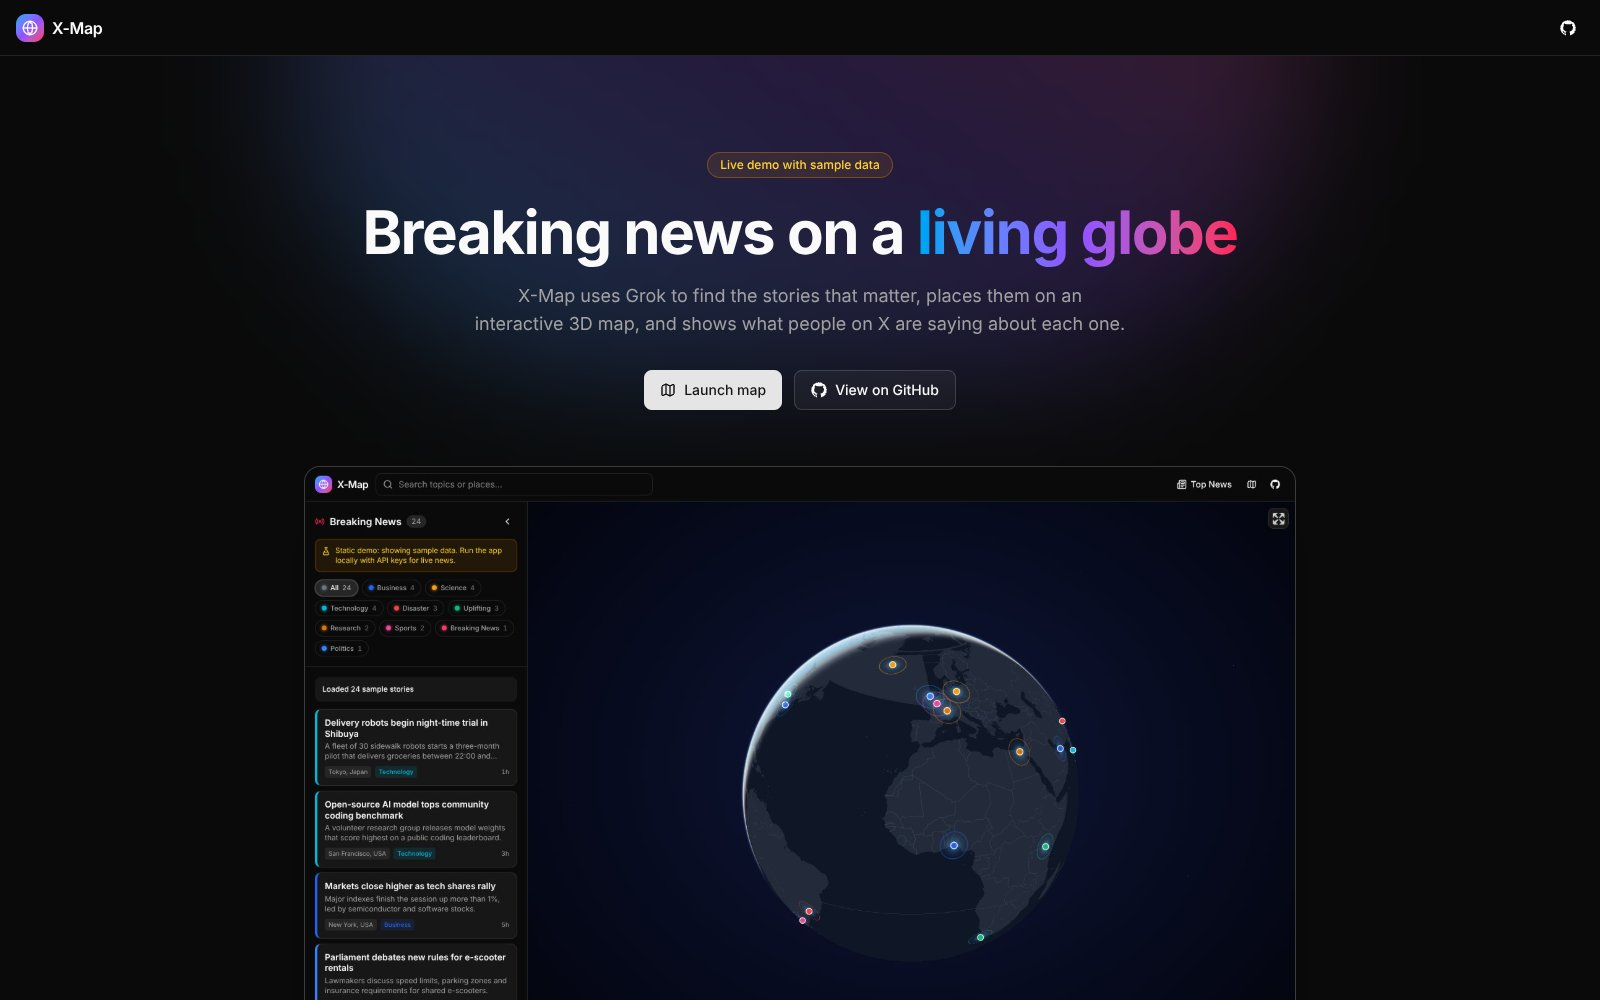
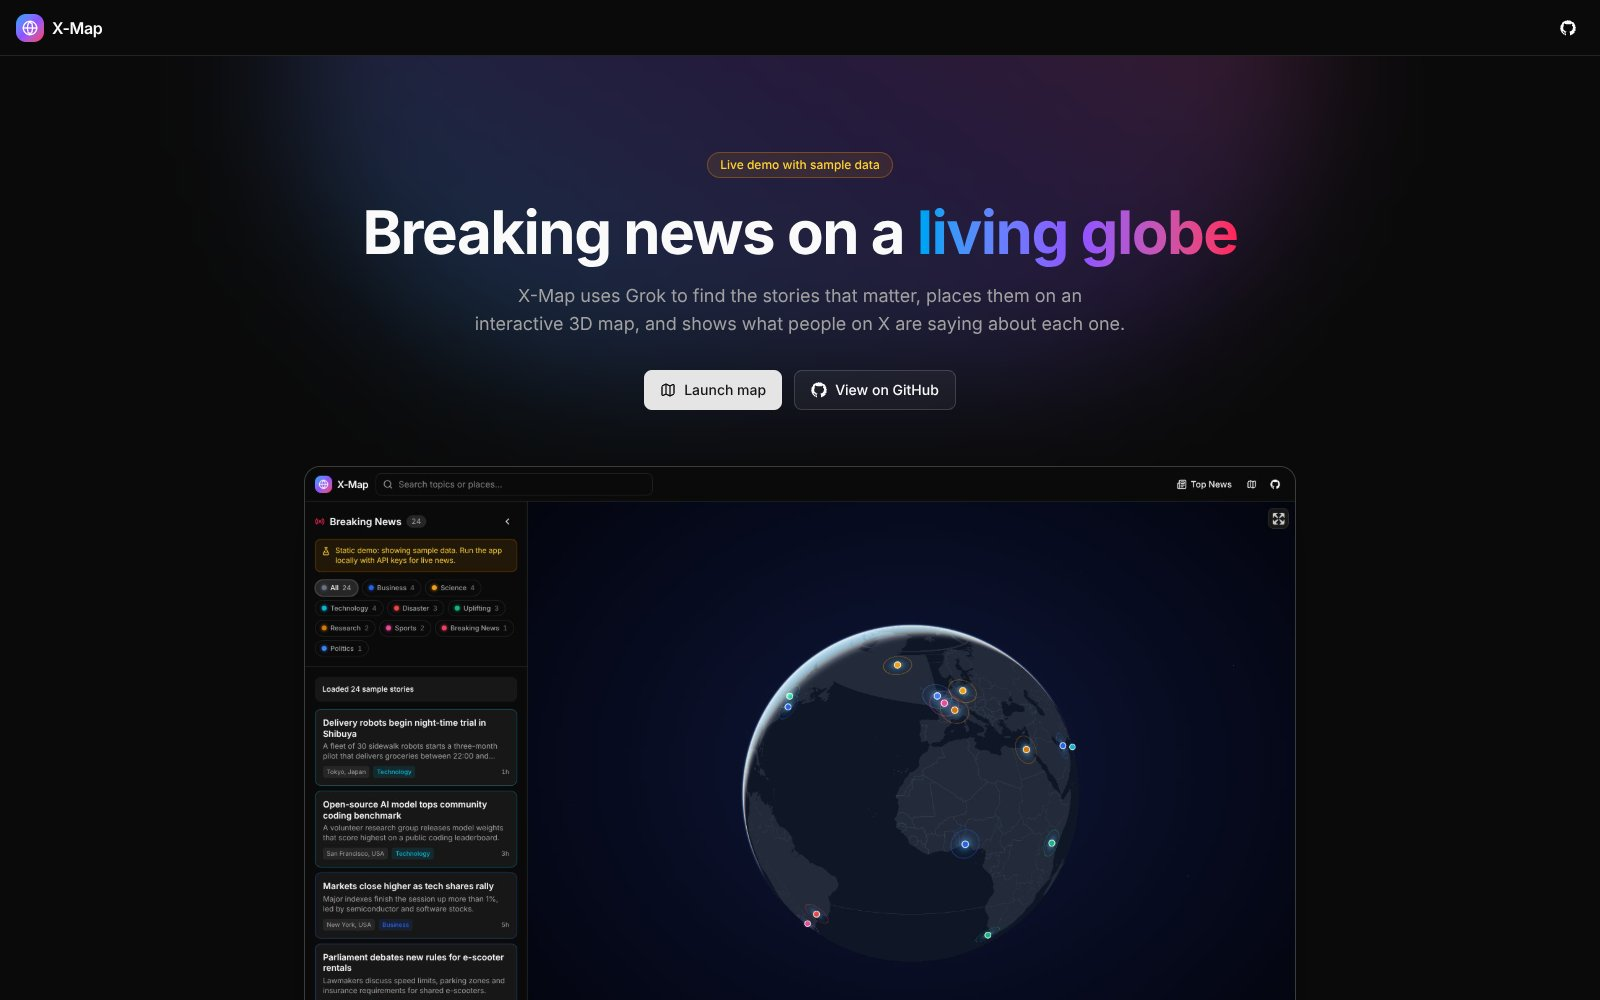
Use thin even borders on story cards
Replace the 4px left-only border with a 1px border on all sides,
tinted with the category colour. Retake the screenshots.

Claude-Session: https://claude.ai/code/session_014g1X2JkWTotcCPE2cwzvDx

diff --git a/components/map/news-sidebar.tsx b/components/map/news-sidebar.tsx
@@ -158,7 +158,7 @@ const NewsListItem = memo(function NewsListItem({
           "w-full rounded-lg border bg-card p-3 text-left shadow-sm transition-all hover:-translate-y-px hover:shadow-md",
           selected && "ring-2 ring-offset-1 ring-offset-background",
         )}
-        style={{ borderLeft: `4px solid ${color}`, ...(selected ? { ["--tw-ring-color" as string]: color } : {}) }}
+        style={{ borderColor: `${color}66`, ...(selected ? { ["--tw-ring-color" as string]: color } : {}) }}
       >
         <h3 className="text-sm font-semibold leading-tight">{item.headline}</h3>
         <p className="mt-1 line-clamp-2 text-xs text-muted-foreground">{item.summary}</p>
